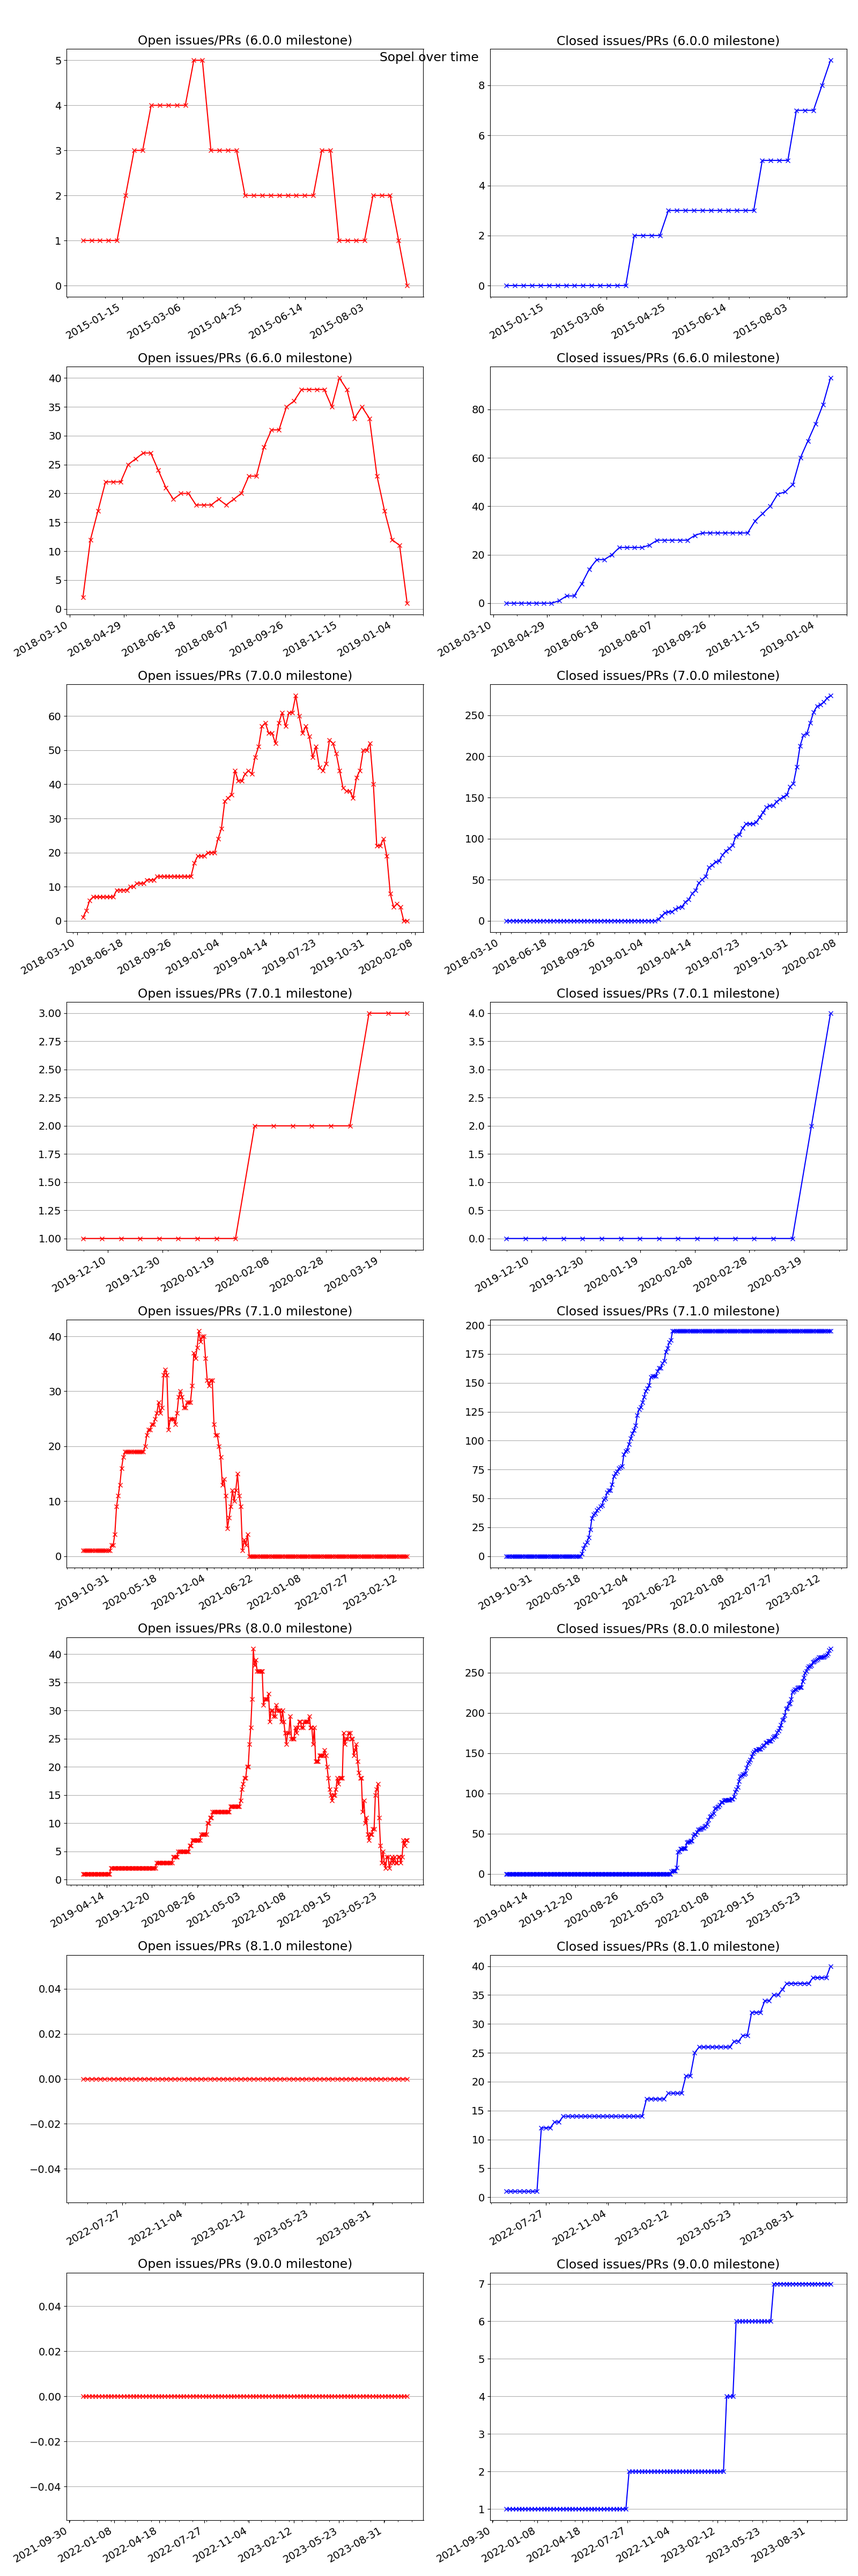
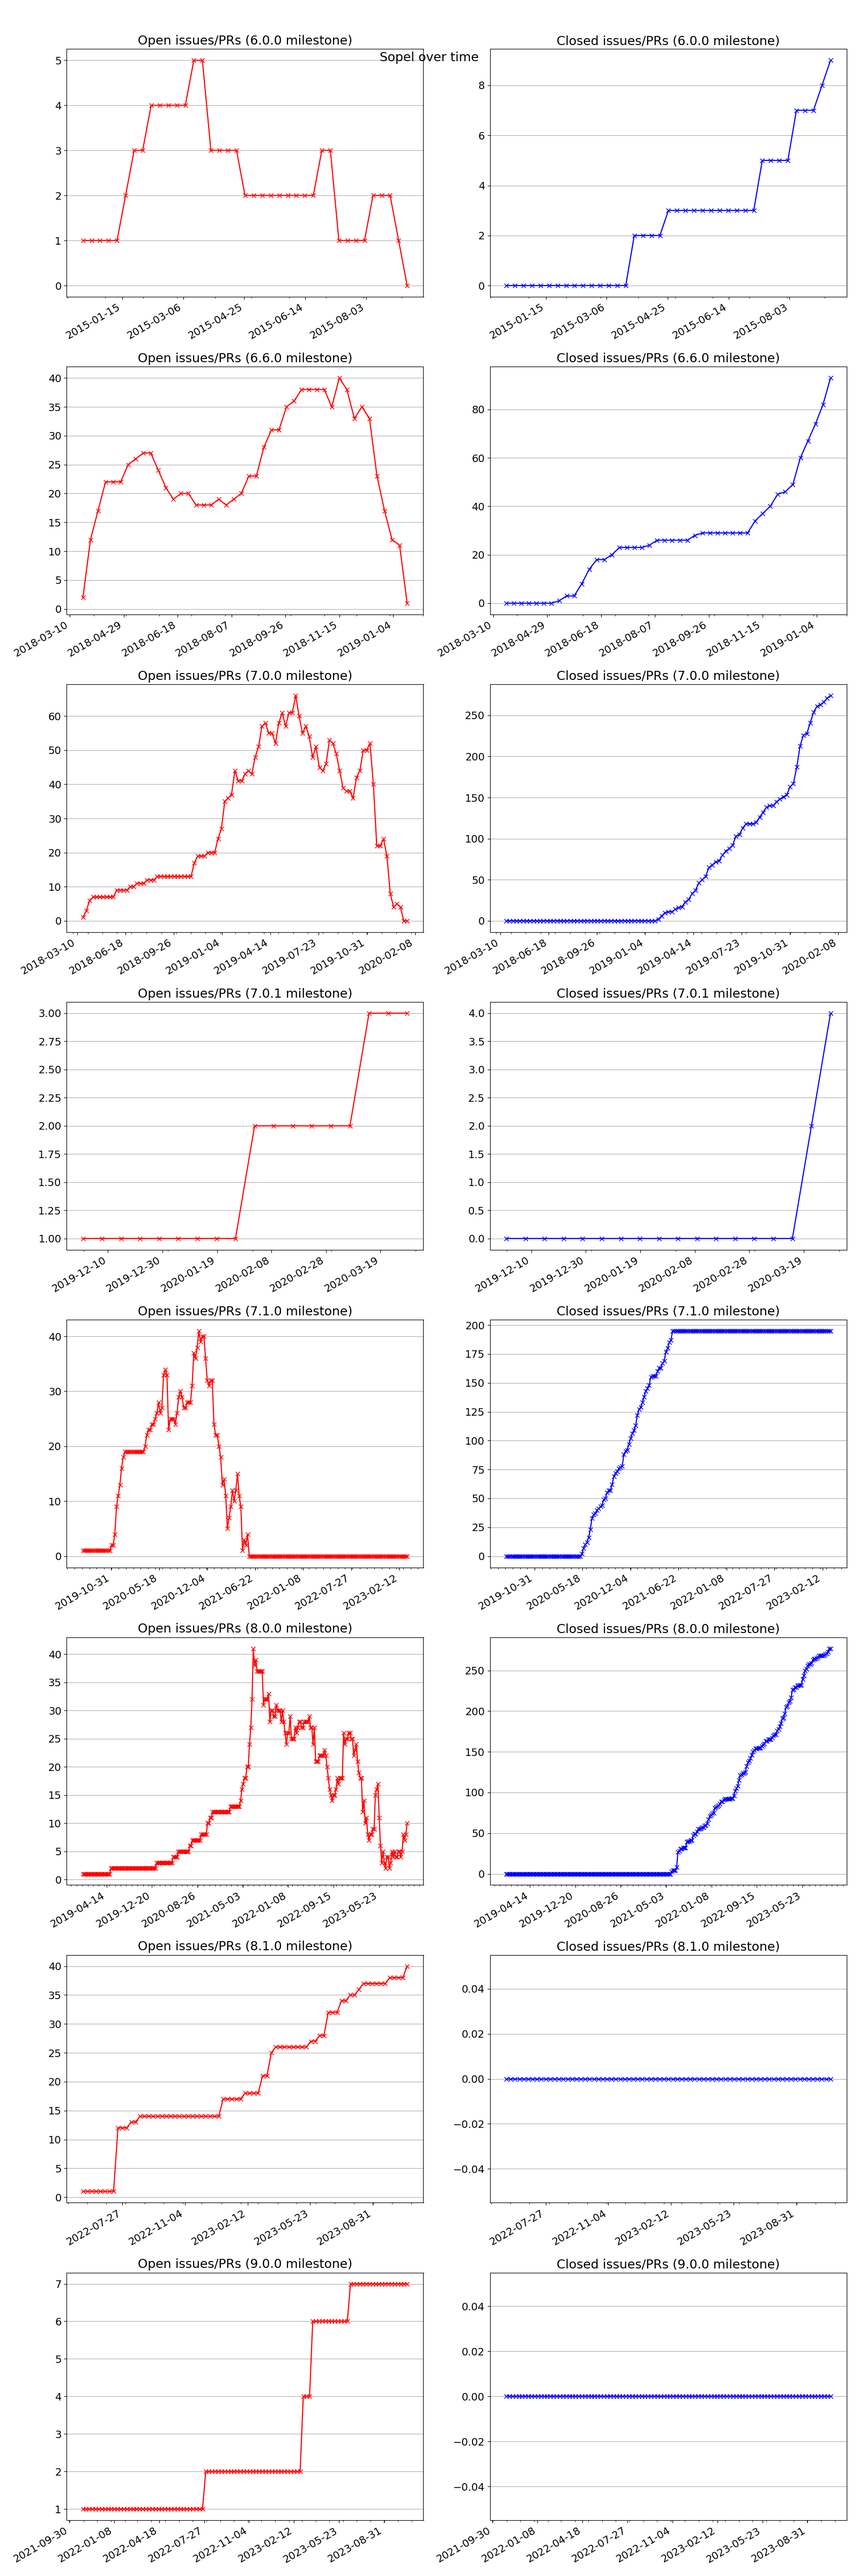
Fix inverted open/closed items

diff --git a/python/github_milestone_statistics/analyze.py b/python/github_milestone_statistics/analyze.py
@@ -44,12 +44,13 @@ class Entry:
         return cls(milestones=milestones, created_at=created_at, closed_at=closed_at, **datum)
 
     def is_open_at(self, t: datetime) -> bool:
-        if self.created_at > t or not self.closed_at:
+        if self.created_at > t:
             return False
 
-        if self.closed_at < t:
+        if self.closed_at and self.closed_at < t:
             return False
         else:
+            # item is either never closed, or not yet closed; either way, it's open
             return True
 
 
